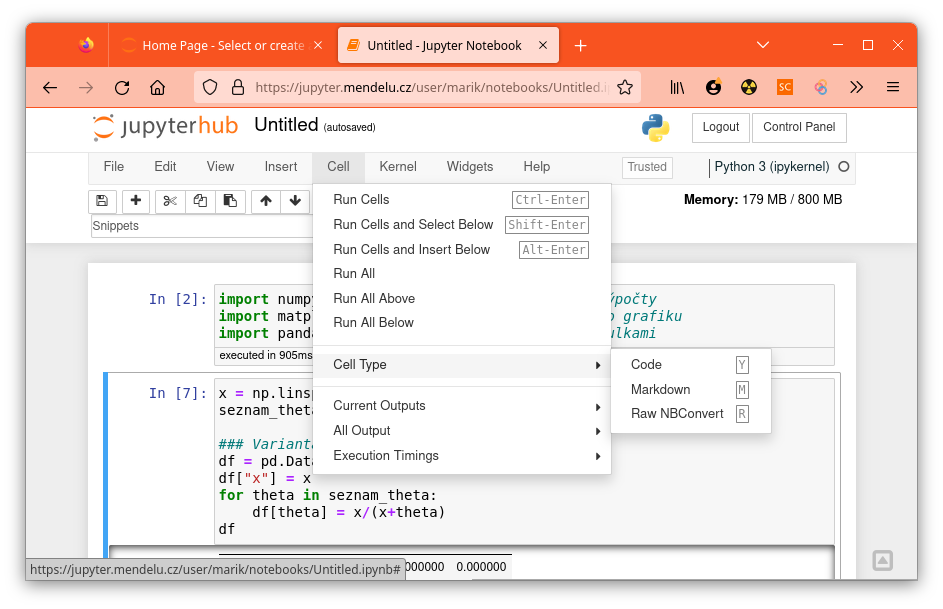
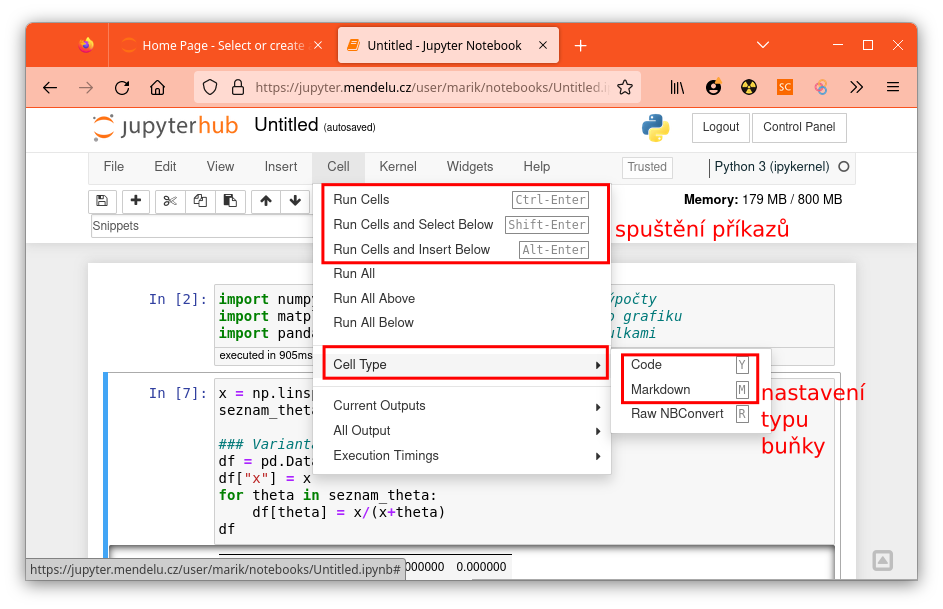
anotacace obrazku

Changed region(s): [[0.3383, 0.5616, 0.9226, 0.7488], [0.3383, 0.2808, 0.6458, 0.4368], [0.6458, 0.3432, 0.8303, 0.4056]]

diff --git a/_posts/2023-02-01-jupyter.md b/_posts/2023-02-01-jupyter.md
@@ -29,6 +29,8 @@ nabídnout.
 * Prostředí webového prohlížeče pro spojení mezi serverem a pracovní stanicí.
 * Podporu velkých firem. Na Python vsadili i Facebook a Google. Důkazem je alternativní prostředí pro výpočty <https://colab.research.google.com/>, možnost sdílení zápisníků na <https://github.com/> a <https://gist.github.com/>. Nebo knihovna pro predikci vývoje časových řad [Prophet](https://facebook.github.io/prophet/)
 
+{% include lightbox.html file="jupyter_main.png" %}
+
 Ovládání zápisníku Jupyter je intuitivní a rychle se s ním každý sžije. Níže je několik nejdůležitějších pokynů.
 
 * Pro orientaci v prostředí si můžete spustit Help -> User Interface Tour (cca 2 minuty)
@@ -45,8 +47,7 @@ Ovládání zápisníku Jupyter je intuitivní a rychle se s ním každý sžije
 
 ## Práce s buňkami (textovými i příkazovými)
 
-
-{% include lightbox.html file="jupyter_download.png" %}
+{% include lightbox.html file="jupyter_run.png" %}
 
 Do zápisníku můžeme vkládat nové buňky, měnit textové buňky na příkazové a naopak, můžeme buňky kopírovat, vkládat, vystřihávat, mazat. Vše se dá naklikat v menu, ale klávesové zkratky jsou pohodlnější a rychlejší.
 
@@ -91,7 +92,7 @@ Stejné jako s programovým kódem, jenom například doplňování proměnných
 
 ## Další tipy 
 
-{% include lightbox.html file="jupyter_maindownload.png" %}
+{% include lightbox.html file="jupyter_control_panel.png" %}
 
 * Do hlavního adresáře se dostanete kliknutím na ikonu jupterhub vlevo nahoře. Zde jsou i po označení souborů nástroje na kopírování, přejmenování, editaci atd.
 * Pokud spotřebujete veškeré prostředky, které máte přiděleny, můžete po kliknutí na Control Panel vpravo nahoře zastavit a znovu spustit server, který Vás obsluhuje.
